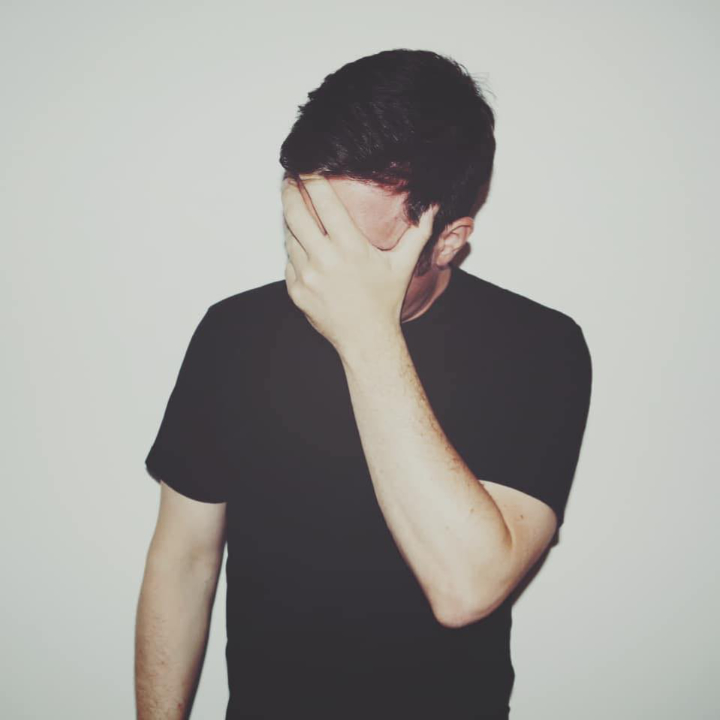
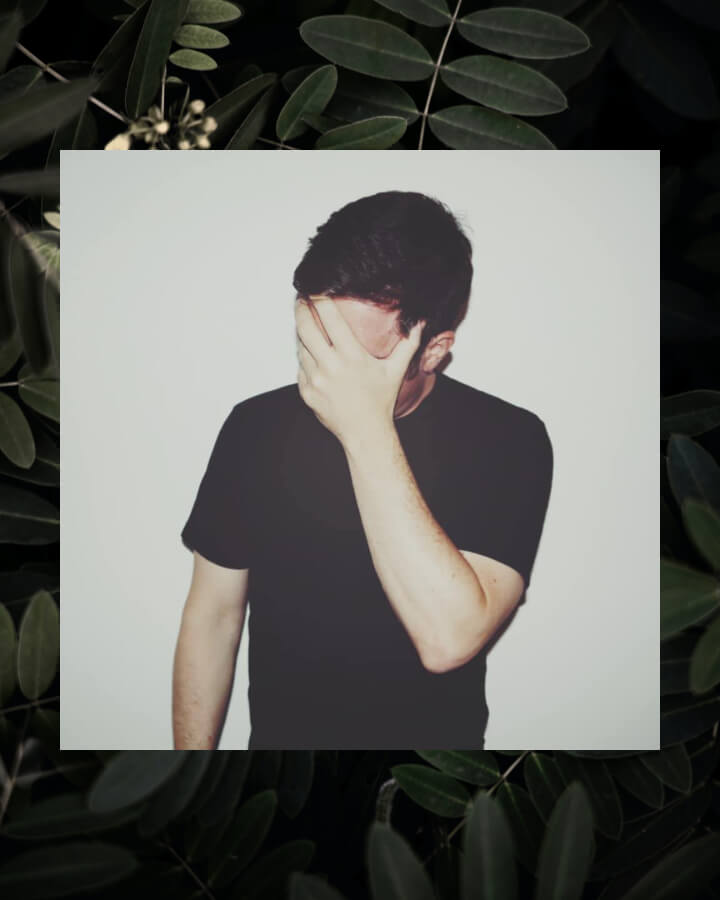
Commit

diff --git a/animal-sauvage.html b/animal-sauvage.html
@@ -36,6 +36,8 @@
 				</div>
 				<div class="illustration-container">
 					<img src="images/avatar.jpg" alt="Hugo - Animal sauvage" class="photo">
+
+					<span class="credit">Photo d'arrière plan de <a href="https://unsplash.com/@ldpeterson11" target="_blank">Luke Peterson</a> sur <a href="https://unsplash.com" target="_blank">Unsplash</a></span>
 				</div>
 			</div>
 
